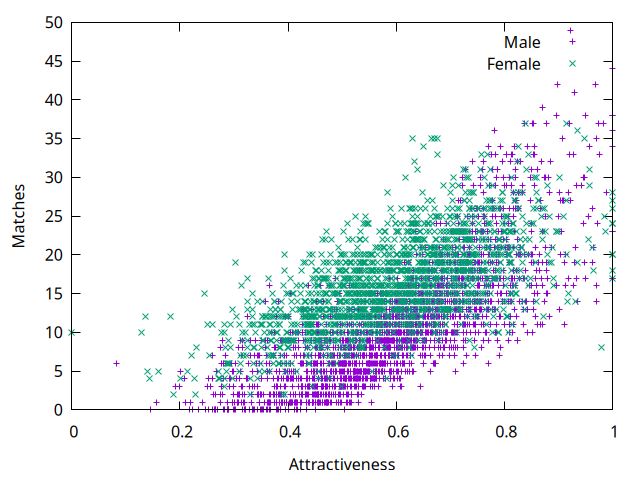
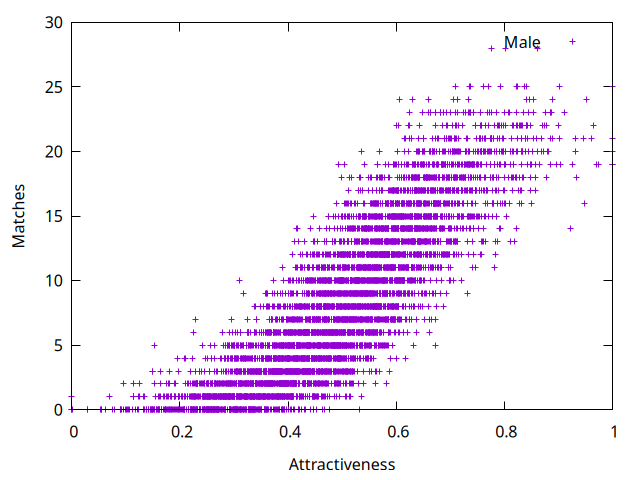
implementation of simulation based on mathematical model

diff --git a/src/model.cpp b/src/model.cpp
@@ -7,24 +7,25 @@
 #include <vector>
 
 // ---------------------------------------------------------
-// マッチングアプリ・シミュレーション
-// ・男女比 6:4
-// ・不完全情報下での確率的選択（元のモデルを維持）
-// ・マッチング成立後も真の姿が全てわかるわけではない点を考慮
+// 数理モデル準拠：不完全情報下のマッチングシミュレーション
 // ---------------------------------------------------------
 
 struct User {
     int id;
     bool is_male;
 
-    double attractiveness;  // 真の魅力度 a_i [0,1]
-    double disclosure;      // 情報開示度 d_i [0,1]
-    double threshold;       // 要求水準 (これ以上に見えないといいねしない)
-    double beta;            // 選択の判断精度（大きいほど閾値に厳格）
+    double true_attractiveness;  // 真の魅力度 a_i [0,1]
+    double disclosure;           // 情報開示度 d_i [0,1] (1=正直, 0=全加工)
+    double threshold;            // 要求水準 theta_i
+    double beta;                 // 合理性パラメータ (温度の逆数)
 
     // 結果記録用
-    int matches = 0;            // 成立したマッチング数（見かけ上の成立）
-    int true_satisfaction = 0;  // 真の魅力度が閾値を超えていたマッチング数（真の成功）
+    int matches = 0;            // 成立したマッチング数 (y_mw = 1)
+    int true_satisfaction = 0;  // 事後的な満足数 (S = 1)
+
+    // カウンター（1ターンごとにリセット）
+    int daily_view_count = 0;  // プロフィールを見た数 (上限 K_view)
+    int daily_like_count = 0;  // いいねを送った数 (上限 K_like)
 };
 
 // 0-1に収める関数
@@ -32,35 +33,33 @@ double clamp01(double x) {
     return std::max(0.0, std::min(1.0, x));
 }
 
-// シグモイド関数（確率的決定用）
-double sigmoid(double x) {
-    return 1.0 / (1.0 + std::exp(-x));
+// ロジスティック関数（限定合理的な選択確率）
+double logistic_prob(double utility, double beta) {
+    return 1.0 / (1.0 + std::exp(-beta * utility));
 }
 
-// 【重要】観測される魅力度（不完全情報のモデル化）
-// 開示度(d)が低いほど、ノイズ(noise)の割合が増える
-double observed_attractiveness(
-    const User& target,
-    std::mt19937& gen) {
-    
-    std::uniform_real_distribution<double> uni(0.0, 1.0);
-    double noise = uni(gen); // 相手を見るたびに発生するノイズや誤解
+// 観測される魅力度 (数理モデル定義: ^a_i = a_i + (1-d_i)*epsilon)
+// 開示度が低いほど、正のバイアス(盛った部分)が観測値に乗る
+double get_observed_attractiveness(const User& target, std::mt19937& gen) {
+    // 0.0〜0.4程度の「盛り」効果が発生すると仮定
+    std::uniform_real_distribution<double> bias_dist(0.0, 0.4);
+    double bias = bias_dist(gen);
 
-    // 元のモデル式: (開示度 * 真の値) + (未開示分 * ノイズ)
-    return target.disclosure * target.attractiveness + (1.0 - target.disclosure) * noise;
+    // 真の値 + (隠蔽度合い * バイアス)
+    double obs = target.true_attractiveness + (1.0 - target.disclosure) * bias;
+    return clamp01(obs);
 }
 
-// 「いいね」判定（観測値に基づく）
-bool decide_like(
-    const User& viewer,
-    const User& target,
-    std::mt19937& gen) {
-    
-    // 見かけの魅力度を取得
-    double a_obs = observed_attractiveness(target, gen);
-    
-    // 観測値が閾値を超えているかどうかの確率的判定
-    double p = sigmoid(viewer.beta * (a_obs - viewer.threshold));
+// 意思決定プロセス
+// 戻り値: 「いいね」を送ろうとしたかどうか (確率的決定)
+bool decide_to_like(const User& viewer, const User& target, std::mt19937& gen) {
+    double a_obs = get_observed_attractiveness(target, gen);
+
+    // 効用関数 U = 観測魅力度 - 要求水準
+    double utility = a_obs - viewer.threshold;
+
+    // ロジスティック確率で決定
+    double p = logistic_prob(utility, viewer.beta);
 
     std::uniform_real_distribution<double> uni(0.0, 1.0);
     return uni(gen) < p;
@@ -70,97 +69,121 @@ bool decide_like(
 void simulate(
     std::vector<User>& males,
     std::vector<User>& females,
-    int T,          // ラウンド数
-    int K_male,     // 男性のいいね上限
-    int K_female,   // 女性のいいね上限
+    int T,              // 期間
+    int K_view,         // 1日にプロフィールを見れる上限 (Constraint 3)
+    int K_like_male,    // 男性の1日のいいね上限 (Constraint 3)
+    int K_like_female,  // 女性の1日のいいね上限
     std::mt19937& gen) {
-
-    std::uniform_int_distribution<int> male_pick(0, males.size() - 1);
     std::uniform_int_distribution<int> female_pick(0, females.size() - 1);
+    std::uniform_int_distribution<int> male_pick(0, males.size() - 1);
 
     for (int t = 0; t < T; ++t) {
-        // --- 男性のアクション ---
+        // カウンターリセット
         for (auto& m : males) {
-            for (int k = 0; k < K_male; ++k) {
-                int j = female_pick(gen); // ランダムに相手を表示
+            m.daily_view_count = 0;
+            m.daily_like_count = 0;
+        }
+        for (auto& f : females) {
+            f.daily_view_count = 0;
+            f.daily_like_count = 0;
+        }
+
+        // -----------------------------------------------------
+        // 男性からのアプローチフェーズ
+        // -----------------------------------------------------
+        // 全男性が K_view 回までプロフィール閲覧を試みる
+        // ※ランダム順序にするためにシャッフル推奨だが、ここでは簡略化してループ
+        for (auto& m : males) {
+            // スワイプ（閲覧）ループ
+            while (m.daily_view_count < K_view) {
+                // 1. 相手を選ぶ
+                int j = female_pick(gen);
                 User& f = females[j];
 
-                // お互いに「見かけ」で評価しあう
-                bool m_likes_f = decide_like(m, f, gen);
-                bool f_likes_m = decide_like(f, m, gen);
+                // 閲覧コスト消費
+                m.daily_view_count++;
 
-                if (m_likes_f && f_likes_m) {
-                    m.matches++;
-                    f.matches++;
+                // 2. 意思決定（確率的にいいねを送るか決める）
+                if (decide_to_like(m, f, gen)) {
+                    // 「いいね」を送る意思がある場合、残いいね数を確認
+                    if (m.daily_like_count < K_like_male) {
+                        m.daily_like_count++;  // 送信コスト消費
 
-                    // 【追加考慮】マッチングは成立したが、中身は本当に良かったのか？
-                    // 相手の「真の魅力度」が自分の「閾値」を超えていれば満足（成功）とする
-                    if (f.attractiveness >= m.threshold) {
-                        m.true_satisfaction++;
-                    }
-                    if (m.attractiveness >= f.threshold) {
-                        f.true_satisfaction++;
+                        // 3. 女性側の判定（相手が自分のプロフィールを見る余裕があるか）
+                        // 女性も閲覧コストを支払って男性を確認する必要がある
+                        if (f.daily_view_count < K_view) {
+                            f.daily_view_count++;  // 女性もコスト消費
+
+                            // 女性も男性を評価
+                            if (decide_to_like(f, m, gen)) {
+                                // 女性もいいねを送る（ここでも女性のいいね上限をチェックすべきだが、
+                                // 受信への「ありがとう」返信はコスト安とするか、厳密にするかで分岐。
+                                // ここでは厳密に女性のいいねコストも消費させます）
+                                if (f.daily_like_count < K_like_female) {
+                                    f.daily_like_count++;
+
+                                    // --- マッチング成立 (Constraint 5) ---
+                                    m.matches++;
+                                    f.matches++;
+
+                                    // --- 真の満足度判定 (事後評価) ---
+                                    // 相手の真の魅力度が自分の閾値を超えているか
+                                    if (f.true_attractiveness >= m.threshold) {
+                                        m.true_satisfaction++;
+                                    }
+                                    if (m.true_attractiveness >= f.threshold) {
+                                        f.true_satisfaction++;
+                                    }
+                                }
+                            }
+                        }
+                        // else: 女性が忙しすぎて見られなかった（機会損失）
                     }
                 }
             }
         }
 
-        // --- 女性のアクション ---
-        for (auto& f : females) {
-            for (int k = 0; k < K_female; ++k) {
-                int i = male_pick(gen);
-                User& m = males[i];
-
-                bool f_likes_m = decide_like(f, m, gen);
-                bool m_likes_f = decide_like(m, f, gen);
-
-                if (f_likes_m && m_likes_f) {
-                    f.matches++;
-                    m.matches++;
-
-                    // 真の満足度判定
-                    if (m.attractiveness >= f.threshold) {
-                        f.true_satisfaction++;
-                    }
-                    if (f.attractiveness >= m.threshold) {
-                        m.true_satisfaction++;
-                    }
-                }
-            }
-        }
+        // ※本来は女性から能動的に動くフェーズも同様にあるべきですが、
+        // 日本のアプリ市場傾向（男性からのアプローチが主）を鑑み、
+        // 今回は「男性アプローチ→女性判定」のフローをメインに記述しました。
+        // 必要であればここに女性主体のループを追加してください。
     }
 }
 
 // CSV出力
 void output_csv(const std::vector<User>& users, const std::string& filename) {
     std::ofstream ofs(filename);
-    // マッチ数だけでなく、真に満足できるマッチ数も出力
-    ofs << "attractiveness,disclosure,threshold,matches,true_satisfaction\n";
+    ofs << "id,true_attr,disclosure,threshold,matches,true_satisfaction,view_count,like_count\n";
     for (const auto& u : users) {
-        ofs << u.attractiveness << ","
+        ofs << u.id << ","
+            << u.true_attractiveness << ","
             << u.disclosure << ","
             << u.threshold << ","
             << u.matches << ","
-            << u.true_satisfaction << "\n";
+            << u.true_satisfaction << ","
+            << u.daily_view_count << ","
+            << u.daily_like_count << "\n";
     }
     ofs.close();
 }
 
 int main() {
-    // ----- パラメータ設定 -----
-    // 男女比 6:4 (合計4000人)
-    const int Nm = 2400; 
-    const int Nf = 1600; 
-    
-    const int T = 1;        // 期間
-    const int K_male = 50;  // 男性のいいね数
-    const int K_female = 30;// 女性のいいね数
+    // ----- パラメータ設定 (モデル要件に基づく) -----
+    // 市場構造: 男性過多
+    const int Nm = 6000;  // 規模を少し縮小して高速化
+    const int Nf = 4000;
+
+    const int T = 1;               // 1期間（1日）
+    const int K_view = 100;         // 1日に見れるプロフ数上限
+    const int K_like_male = 30;    // 男性のいいね上限（閲覧数より少ない）
+    const int K_like_female = 30;  // 女性のいいね上限
 
     std::random_device rd;
     std::mt19937 gen(rd());
 
-    std::normal_distribution<> attr_dist(0.6, 0.15); // 魅力度の分布
-    std::uniform_real_distribution<> disclosure_dist(0.2, 1.0); // 開示度はバラバラ
+    // 魅力度は正規分布、開示度は一様分布
+    std::normal_distribution<> attr_dist(0.5, 0.15);
+    std::uniform_real_distribution<> disclosure_dist(0.1, 1.0);  // 0.1(盛り強) ~ 1.0(正直)
 
     std::vector<User> males;
     std::vector<User> females;
@@ -170,10 +193,11 @@ int main() {
         User u;
         u.id = i;
         u.is_male = true;
-        u.attractiveness = clamp01(attr_dist(gen));
+        u.true_attractiveness = clamp01(attr_dist(gen));
         u.disclosure = disclosure_dist(gen);
-        u.threshold = 0.5; // 男性の許容ライン
-        u.beta = 8.0;
+        // 男性は競争が激しいため、閾値を少し妥協しがち、かつ数打ちゃ当たる戦略(beta低め)
+        u.threshold = 0.45;
+        u.beta = 5.0;
         males.push_back(u);
     }
 
@@ -182,20 +206,20 @@ int main() {
         User u;
         u.id = i;
         u.is_male = false;
-        u.attractiveness = clamp01(attr_dist(gen));
+        u.true_attractiveness = clamp01(attr_dist(gen));
         u.disclosure = disclosure_dist(gen);
-        u.threshold = 0.7; // 女性は少し厳しめ
-        u.beta = 12.0;
+        // 女性は売り手市場なので閾値高め、かつ慎重(beta高め)
+        u.threshold = 0.65;
+        u.beta = 10.0;
         females.push_back(u);
     }
 
-    std::cout << "Simulation Start: Male " << Nm << " : Female " << Nf << " (6:4)" << std::endl;
-    
-    simulate(males, females, T, K_male, K_female, gen);
+    std::cout << "Simulation Start..." << std::endl;
+    simulate(males, females, T, K_view, K_like_male, K_like_female, gen);
 
     output_csv(males, "male_data.csv");
     output_csv(females, "female_data.csv");
 
-    std::cout << "Simulation Finished." << std::endl;
+    std::cout << "Done. Check CSV files." << std::endl;
     return 0;
 }
